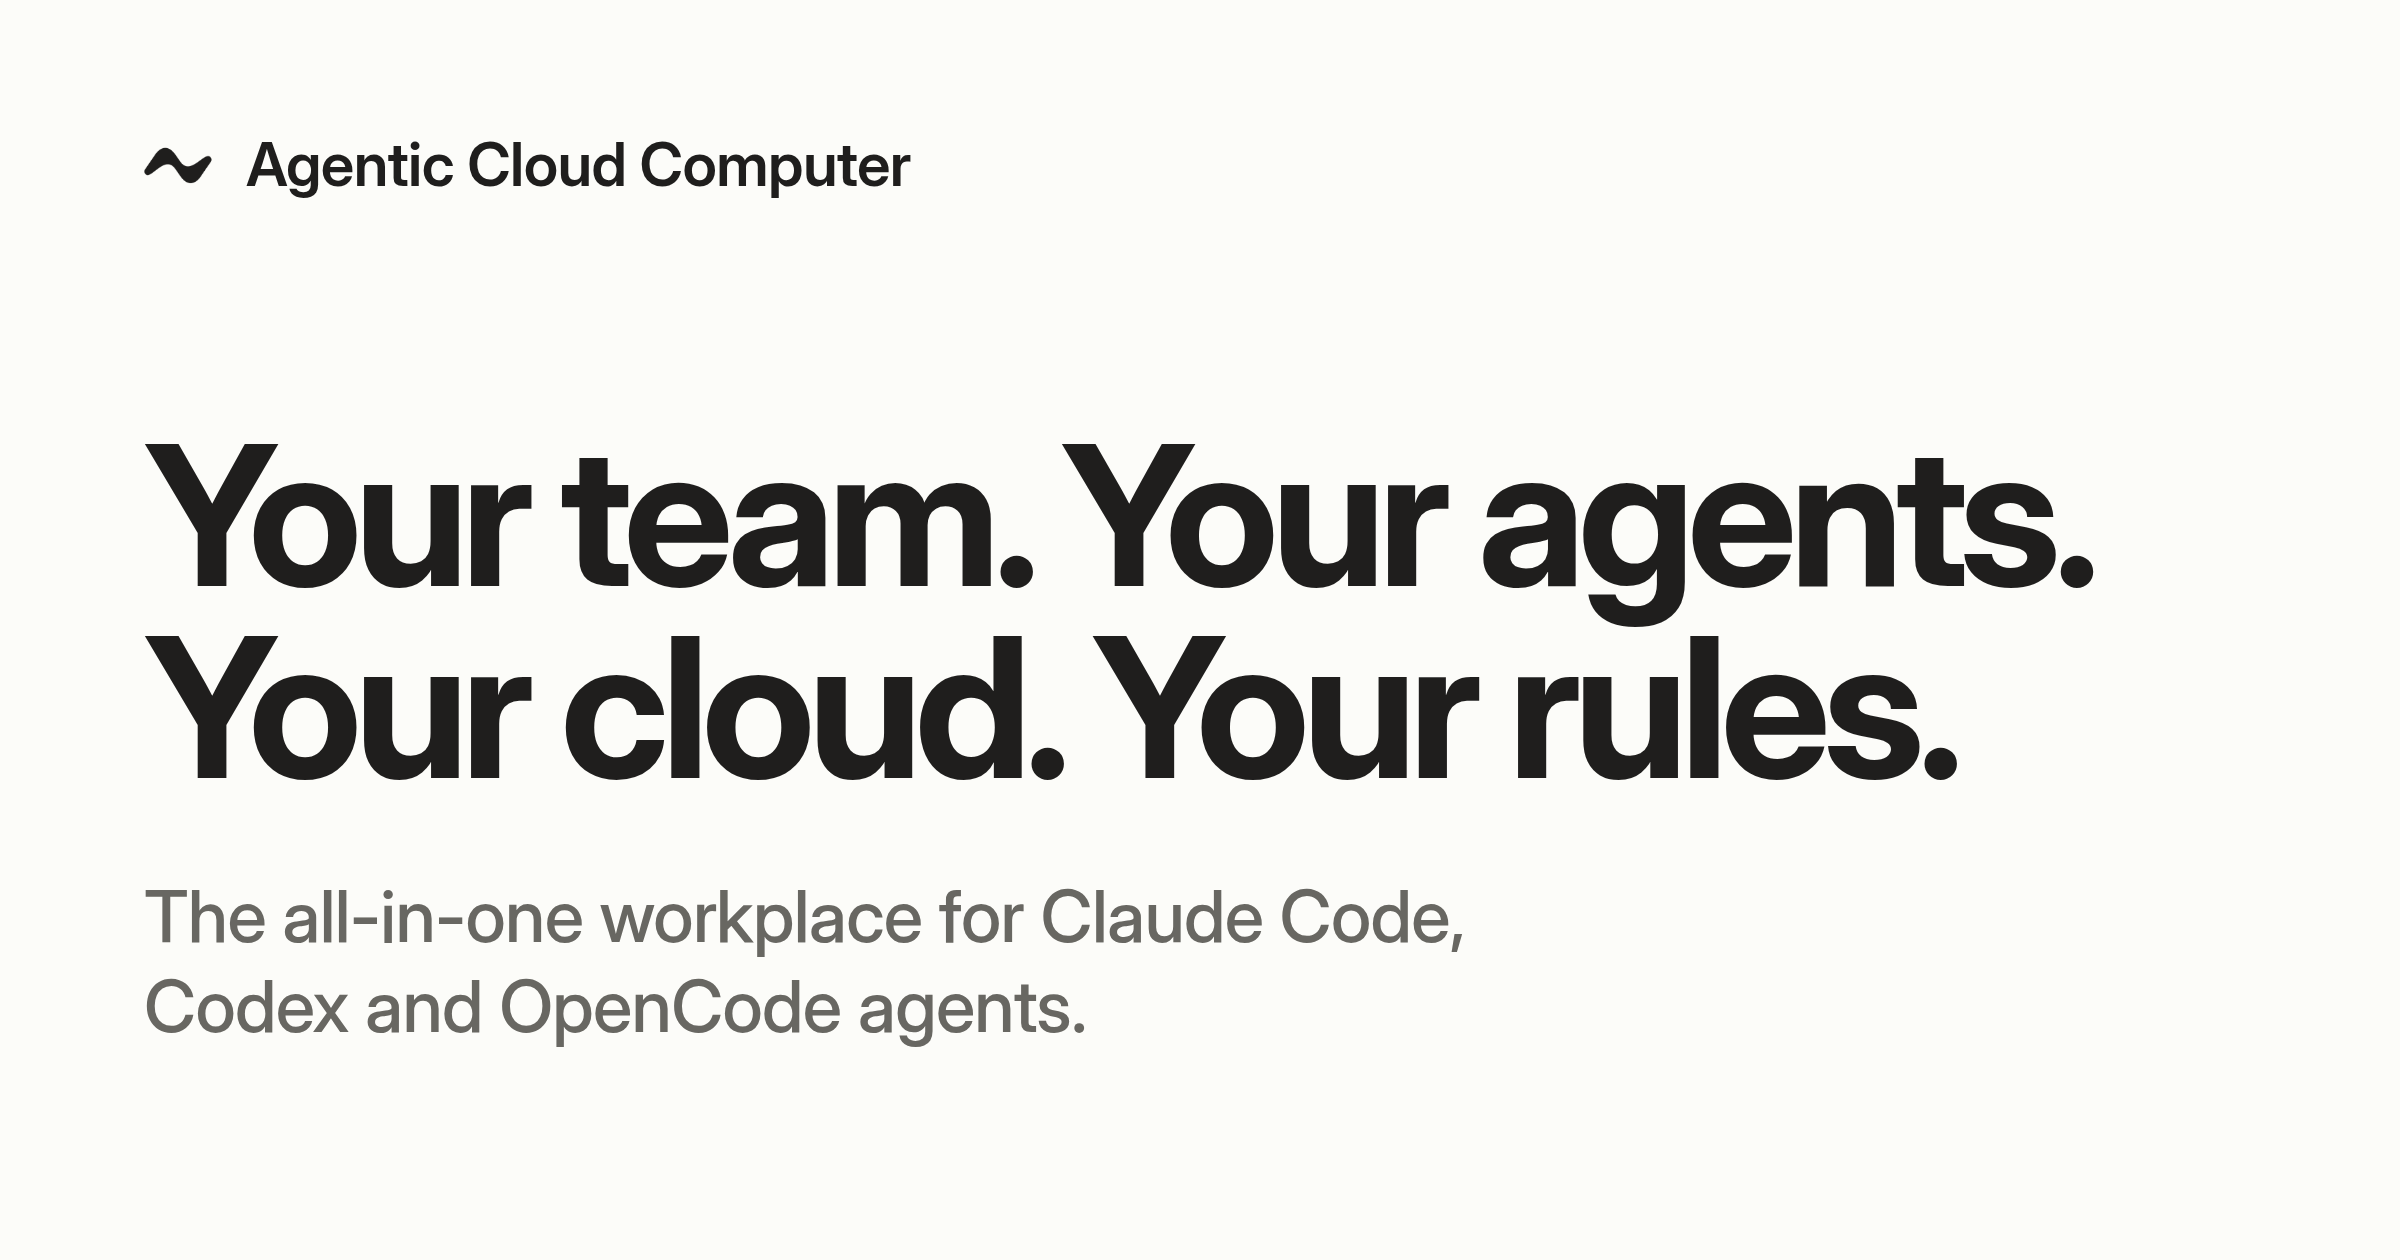
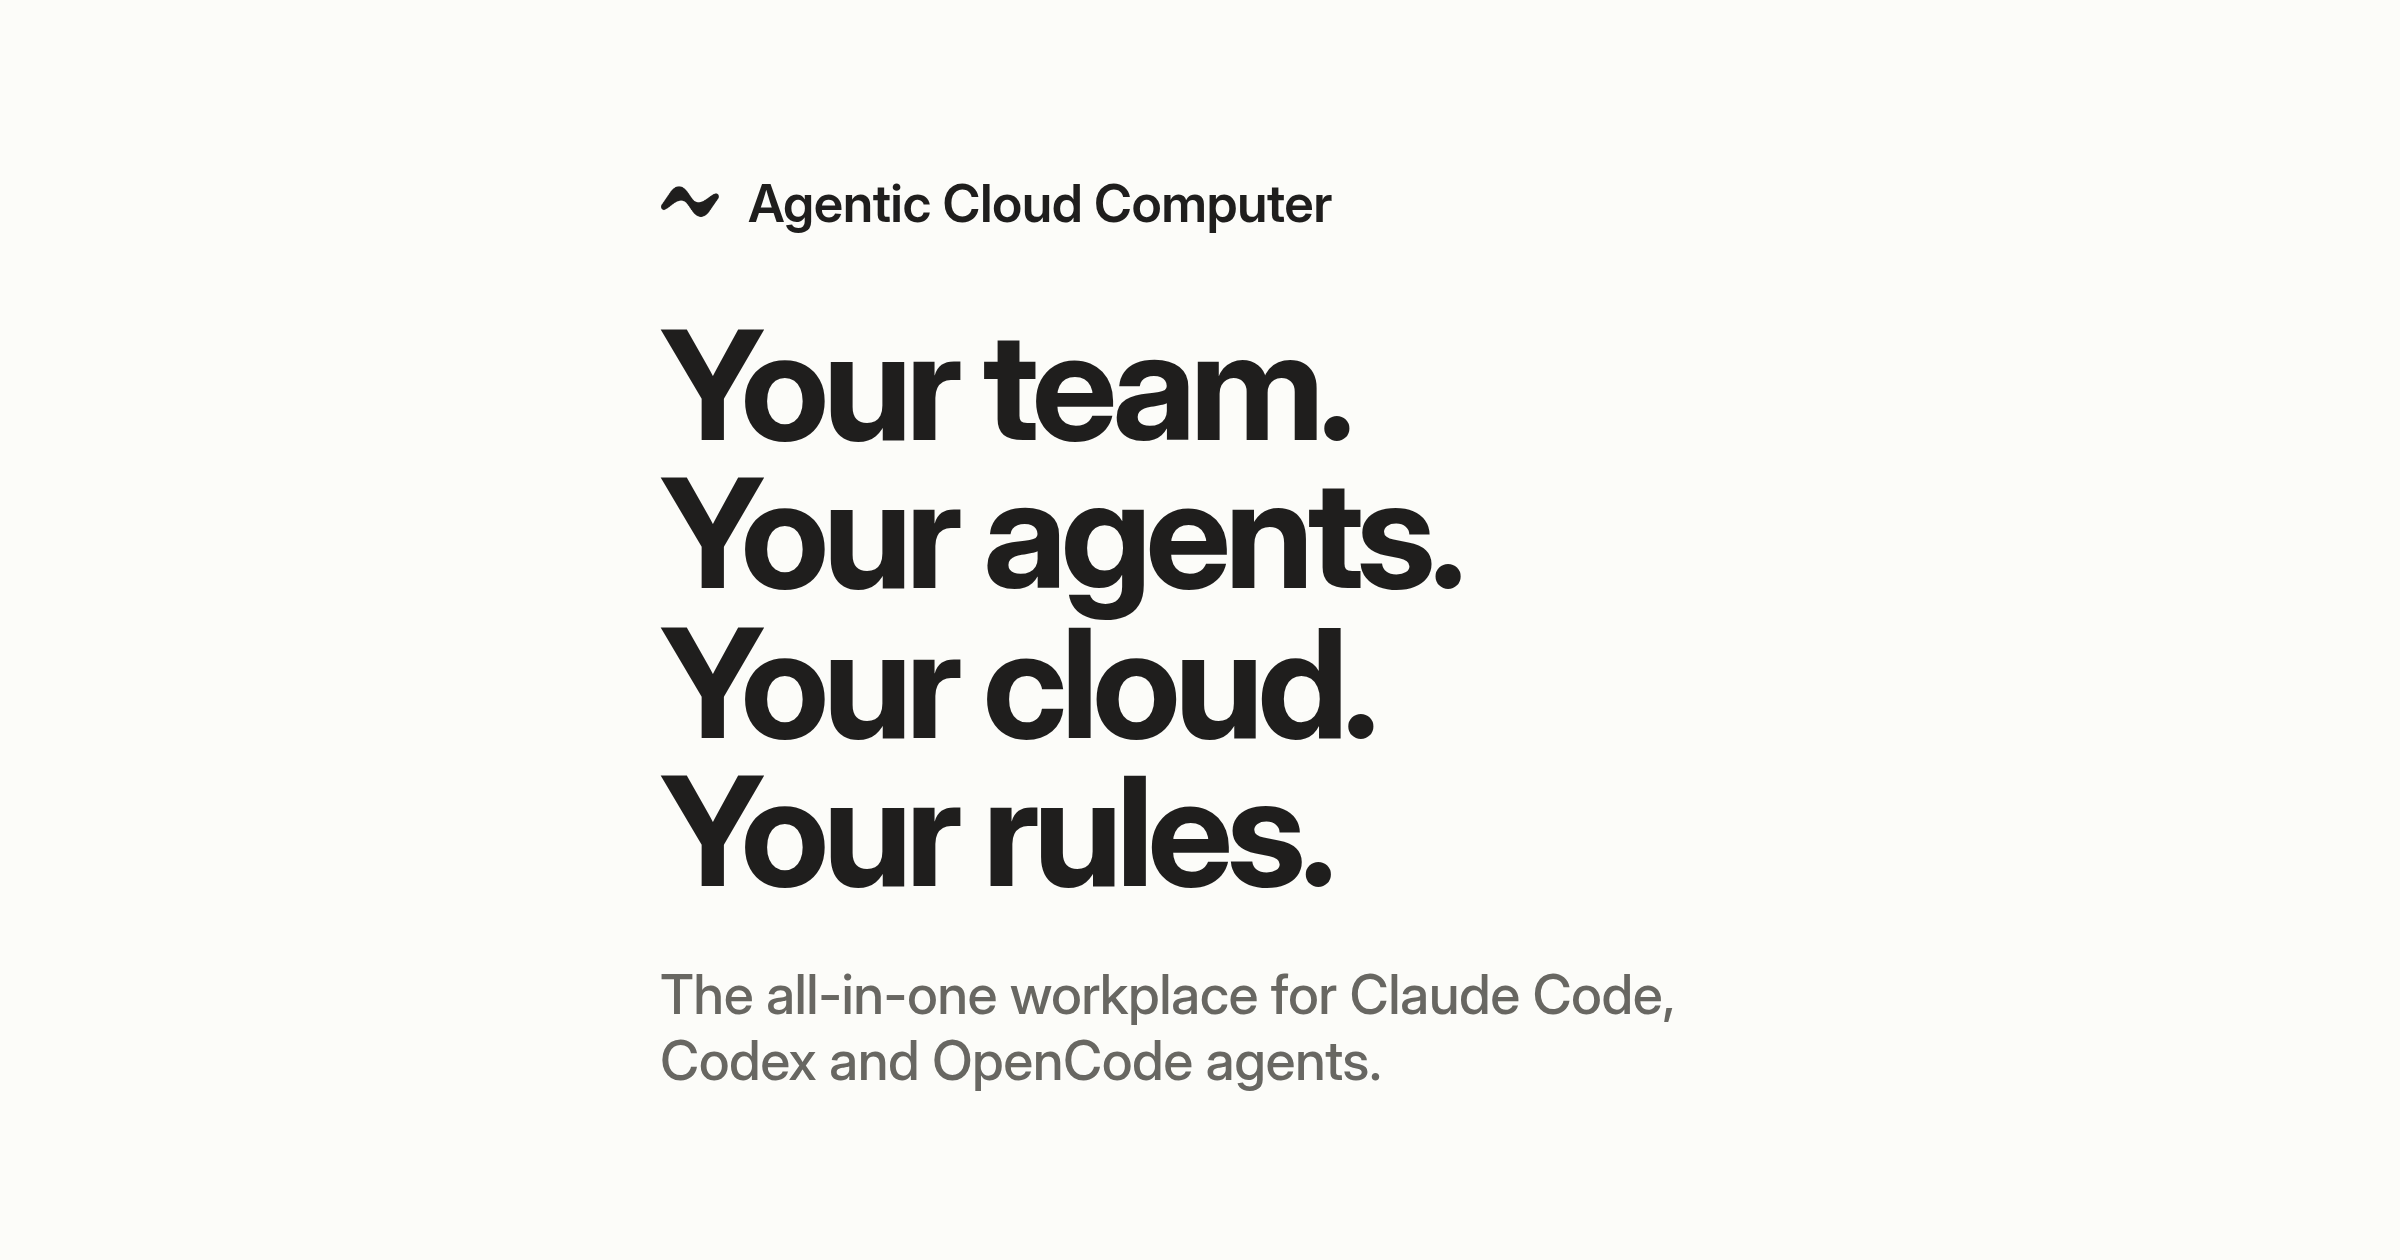
Share card: square-safe picture, a description that says what the title does not, www documented (note #1137)
Adam, 10 Nov 2026, 15:33 UTC, "Fix all" on three findings about how the
link looks when shared:

- The picture (og-image.png?v=33): one column inside the centre square
  (x 285..915 of 1200), the headline one sentence a line, so WhatsApp and
  iMessage's square thumbnail shows the whole card instead of chopped
  words. Same cream, same type, same words. shoot-og-image.mjs now refuses
  to write a picture whose text leaves the square.
- The description (meta, og, twitter): "Each agent works on a computer of
  its own in your company's cloud. None of your data comes to us. Git,
  hosting and email are built in." (134). The title stays.
- www.agenticcloudcomputer.com now 301s to the bare domain through the
  apex-redirect Pages project (set up through the Cloudflare API; the README
  records how).

Changed region(s): [[0.0625, 0.2476, 0.875, 0.8667], [0.0625, 0.0929, 0.5625, 0.1857]]

diff --git a/src/pages/OgPreview.tsx b/src/pages/OgPreview.tsx
@@ -18,6 +18,13 @@ import { SHARE_HEADLINE, SHARE_LINE } from '../lib/share-card';
 // (about 270 to 516 px wide); the bottom-left 100 px is left clear, because X
 // lays its title label over that corner; the background is the film's own
 // (#fcfcf9) and the ink and grey are the home page's.
+//
+// SQUARE-SAFE since note #1137 (Adam, 10 Nov 2026, 15:33 UTC, "Fix all"):
+// WhatsApp and iMessage often draw only the centre square of the card, which
+// is x 285..915 of 1200. Everything now stands in one column inside that
+// square (SQUARE_SAFE), the headline set one sentence a line, so the crop
+// shows the whole card rather than chopped words. scripts/shoot-og-image.mjs
+// refuses to write the picture if any text leaves the square.
 function BrandMark({ className, style }: { className?: string; style?: CSSProperties }) {
   const mask: CSSProperties = {
     backgroundColor: '#1f1e1d',
@@ -34,27 +41,33 @@ function BrandMark({ className, style }: { className?: string; style?: CSSProper
   return <span className={`inline-block ${className ?? ''}`} style={mask} aria-hidden="true" />;
 }
 
+/** The centre square of the 1200x630 card, and the column inside it. */
+export const SQUARE_SAFE = { left: 285, right: 915, column: 540 } as const;
+
 export default function OgPreview() {
-  const [first, second] = SHARE_HEADLINE.split(/(?<=agents\.) /);
+  const lines = SHARE_HEADLINE.split(/(?<=\.) /);
   return (
     <main className="landing-page flex min-h-dvh items-center justify-center bg-canvas-soft">
       <div
         id="og-canvas"
-        className="relative flex h-[630px] w-[1200px] shrink-0 flex-col overflow-hidden"
-        style={{ background: '#fcfcf9', color: '#1f1e1d', padding: '60px 72px 104px', boxSizing: 'border-box', fontFamily: 'var(--font-ui)' }}
+        className="relative flex h-[630px] w-[1200px] shrink-0 items-center justify-center overflow-hidden"
+        style={{ background: '#fcfcf9', color: '#1f1e1d', boxSizing: 'border-box', fontFamily: 'var(--font-ui)' }}
       >
-        <div data-og-masthead className="flex items-center" style={{ gap: 12, fontSize: 30, fontWeight: 600, letterSpacing: '-0.01em', marginLeft: -5 }}>
-          <BrandMark style={{ width: 44, height: 44 }} />
-          Agentic Cloud Computer
-        </div>
-        <div style={{ marginTop: 'auto' }}>
-          <h1 style={{ margin: 0, fontSize: 98, fontWeight: 700, letterSpacing: '-0.04em', lineHeight: 0.98 }}>
-            {first}
-            <br />
-            {second}
+        <div data-og-column style={{ width: SQUARE_SAFE.column }}>
+          <div data-og-masthead className="flex items-center" style={{ gap: 10, fontSize: 26, fontWeight: 600, letterSpacing: '-0.01em', marginLeft: -4 }}>
+            <BrandMark style={{ width: 38, height: 38 }} />
+            Agentic Cloud Computer
+          </div>
+          <h1 style={{ margin: '34px 0 0', fontSize: 76, fontWeight: 700, letterSpacing: '-0.04em', lineHeight: 0.98 }}>
+            {lines.map((line, index) => (
+              <span key={line}>
+                {index > 0 && <br />}
+                {line}
+              </span>
+            ))}
           </h1>
-          <p className="[text-wrap:balance]" style={{ margin: '34px 0 0', maxWidth: 1000, fontSize: 36, lineHeight: 1.25, fontWeight: 500, letterSpacing: '-0.01em', color: '#686762' }}>
-            {/* "Claude Code" never splits across the two lines. */}
+          <p style={{ margin: '28px 0 0', fontSize: 27, lineHeight: 1.25, fontWeight: 500, letterSpacing: '-0.01em', color: '#686762' }}>
+            {/* "Claude Code" never splits across two lines. */}
             {SHARE_LINE.replace('Claude Code', 'Claude\u00a0Code')}
           </p>
         </div>

diff --git a/index.html b/index.html
@@ -4,7 +4,7 @@
     <meta charset="UTF-8" />
     <meta name="viewport" content="width=device-width, initial-scale=1.0, viewport-fit=cover" />
     <title>One workplace for Claude Code, Codex and OpenCode agents — Agentic Cloud Computer</title>
-    <meta name="description" content="Your team. Your agents. Your cloud. Your rules. One workplace for Claude Code, Codex and OpenCode agents, with git, hosting and email built in." />
+    <meta name="description" content="Each agent works on a computer of its own in your company’s cloud. None of your data comes to us. Git, hosting and email are built in." />
     <meta name="color-scheme" content="light" />
     <meta name="theme-color" content="#fcfcfb" />
     <meta name="author" content="Agentic Cloud Computer" />
@@ -46,9 +46,9 @@
     <!-- Open Graph / Social -->
     <meta property="og:type" content="website" />
     <meta property="og:title" content="One workplace for Claude Code, Codex and OpenCode agents" />
-    <meta property="og:description" content="Your team. Your agents. Your cloud. Your rules. One workplace for Claude Code, Codex and OpenCode agents, with git, hosting and email built in." />
+    <meta property="og:description" content="Each agent works on a computer of its own in your company’s cloud. None of your data comes to us. Git, hosting and email are built in." />
     <meta property="og:url" content="https://agenticcloudcomputer.com/" />
-    <meta property="og:image" content="https://agenticcloudcomputer.com/og-image.png?v=32" />
+    <meta property="og:image" content="https://agenticcloudcomputer.com/og-image.png?v=33" />
     <meta property="og:image:width" content="2400" />
     <meta property="og:image:height" content="1260" />
     <meta property="og:image:alt" content="Your team. Your agents. Your cloud. Your rules. The all-in-one workplace for Claude Code, Codex and OpenCode agents." />
@@ -57,8 +57,8 @@
     <!-- Twitter -->
     <meta name="twitter:card" content="summary_large_image" />
     <meta name="twitter:title" content="One workplace for Claude Code, Codex and OpenCode agents" />
-    <meta name="twitter:description" content="Your team. Your agents. Your cloud. Your rules. One workplace for Claude Code, Codex and OpenCode agents, with git, hosting and email built in." />
-    <meta name="twitter:image" content="https://agenticcloudcomputer.com/og-image.png?v=32" />
+    <meta name="twitter:description" content="Each agent works on a computer of its own in your company’s cloud. None of your data comes to us. Git, hosting and email are built in." />
+    <meta name="twitter:image" content="https://agenticcloudcomputer.com/og-image.png?v=33" />
     <meta name="twitter:image:alt" content="Your team. Your agents. Your cloud. Your rules. The all-in-one workplace for Claude Code, Codex and OpenCode agents." />
 
     <!-- The site's one webfont: Inter, subset to latin, one variable file for

diff --git a/src/pages/OgPreview.test.tsx b/src/pages/OgPreview.test.tsx
@@ -3,7 +3,7 @@ import path from 'node:path';
 import React from 'react';
 import { render } from '@testing-library/react';
 import { describe, expect, it } from 'vitest';
-import OgPreview from './OgPreview';
+import OgPreview, { SQUARE_SAFE } from './OgPreview';
 import { HOME_TITLE, SHARE_DESCRIPTION, SHARE_HEADLINE, SHARE_IMAGE_ALT, SHARE_IMAGE_VERSION, SHARE_LINE, SHARE_TITLE } from '../lib/share-card';
 
 const ROOT = path.resolve(__dirname, '..', '..');
@@ -18,12 +18,25 @@ describe('The share card (note #1004)', () => {
     const { container } = render(<OgPreview />);
     const card = container.querySelector('#og-canvas')!;
     expect(card.querySelector('[data-og-masthead]')?.textContent?.trim()).toBe('Agentic Cloud Computer');
-    // Two lines, broken after "Your agents."
-    expect(card.querySelector('h1')!.innerHTML).toBe(SHARE_HEADLINE.replace('agents. ', 'agents.<br>'));
+    // One sentence a line (note #1137), so the headline fits the centre square.
+    expect(card.querySelector('h1')!.textContent).toBe(SHARE_HEADLINE.replace(/\. /g, '.'));
+    expect(card.querySelectorAll('h1 br')).toHaveLength(3);
     expect(card.querySelector('p')?.textContent?.replace(/\u00a0/g, ' ')).toBe(SHARE_LINE);
     // No screenshots, no live panels, no avatars: nothing that is
     // unreadable at the size a preview is drawn.
     expect(card.querySelectorAll('img, .ws-live')).toHaveLength(0);
+  });
+
+  // Note #1137: WhatsApp and iMessage may draw only the centre square
+  // (x 285..915). The words stand in one column narrower than that square,
+  // centred; scripts/shoot-og-image.mjs measures the real render.
+  it('keeps every word inside the centre square', () => {
+    const { container } = render(<OgPreview />);
+    const canvas = container.querySelector('#og-canvas')!;
+    expect(canvas.className).toContain('justify-center');
+    const column = canvas.querySelector('[data-og-column]') as HTMLElement;
+    expect(column.style.width).toBe(`${SQUARE_SAFE.column}px`);
+    expect(SQUARE_SAFE.column).toBeLessThanOrEqual(SQUARE_SAFE.right - SQUARE_SAFE.left - 60);
   });
 
   it('keeps the card inside its own 1200x630 frame', () => {

diff --git a/src/lib/share-card.ts b/src/lib/share-card.ts
@@ -14,11 +14,15 @@ export const SHARE_LINE = 'The all-in-one workplace for Claude Code, Codex and O
 export const SHARE_TITLE = 'One workplace for Claude Code, Codex and OpenCode agents';
 /** The home page's <title>: the share title, then the name (81). */
 export const HOME_TITLE = `${SHARE_TITLE} — Agentic Cloud Computer`;
-/** The meta, og and twitter description of the home page (143). */
+/** The meta, og and twitter description of the home page (134). Since note
+ *  #1137 (Adam, 10 Nov 2026, 15:33 UTC, "Fix all") it says what the title
+ *  does not, instead of naming the three agents a second time: where each
+ *  agent works, that none of the data comes to us (the daily report is
+ *  Privacy Policy material, note #1135), and what is built in. */
 export const SHARE_DESCRIPTION =
-  'Your team. Your agents. Your cloud. Your rules. One workplace for Claude Code, Codex and OpenCode agents, with git, hosting and email built in.';
+  'Each agent works on a computer of its own in your company’s cloud. None of your data comes to us. Git, hosting and email are built in.';
 /** og:image:alt: the card's own words (116). */
 export const SHARE_IMAGE_ALT = `${SHARE_HEADLINE} ${SHARE_LINE}`;
 /** Bump with every new public/og-image.png: X, Slack, iMessage and Telegram
  *  cache the picture by its URL. */
-export const SHARE_IMAGE_VERSION = 32;
+export const SHARE_IMAGE_VERSION = 33;

diff --git a/src/entry-server.test.tsx b/src/entry-server.test.tsx
@@ -55,7 +55,10 @@ describe('prerendered routes', () => {
     // and names what is built in.
     expect(home?.title).toBe('One workplace for Claude Code, Codex and OpenCode agents — Agentic Cloud Computer');
     expect(home?.shareTitle).toBe('One workplace for Claude Code, Codex and OpenCode agents');
-    expect(home?.description).toBe('Your team. Your agents. Your cloud. Your rules. One workplace for Claude Code, Codex and OpenCode agents, with git, hosting and email built in.');
+    // Since note #1137 (10 Nov 2026) the description says what the title
+    // does not, and never names the three agents again.
+    expect(home?.description).toBe('Each agent works on a computer of its own in your company’s cloud. None of your data comes to us. Git, hosting and email are built in.');
+    expect(home?.description).not.toMatch(/Claude Code|Codex|OpenCode|daily report/);
     expect(home?.description).not.toMatch(/second brain/);
     expect(home?.description).not.toMatch(/cloud computer|laptop|a cloud to work in/i);
     for (const route of ROUTES) expect(route.description, route.path).not.toMatch(/\bfree\b|at no charge|\bour cloud/i);

diff --git a/infra/apex-redirect/README.md b/infra/apex-redirect/README.md
@@ -1,7 +1,17 @@
-# agentbuilt.app apex redirect
+# agentbuilt.app apex redirect (and www.agenticcloudcomputer.com)
 
 `https://agentbuilt.app/<anything>` answers `301` to
 `https://agenticcloudcomputer.com/<anything>` (path and query kept). Note #683.
+
+Since note #1137 (10 Nov 2026) the same project also answers
+`https://www.agenticcloudcomputer.com/<anything>` with the same `301` to the
+bare domain. `www.agenticcloudcomputer.com` is a second Pages custom domain on
+`agentbuilt-app-redirect`, and the agenticcloudcomputer.com zone has a proxied
+`CNAME www -> agentbuilt-app-redirect.pages.dev`, written with the workplace
+secret `CLOUDFLARE_R2_TOKEN` (DNS edit on that zone). A redirect rule was not
+possible because that token cannot write rulesets. The landing's own Pages
+Function could not do it either, because `public/_routes.json` keeps many
+paths out of it. Until note #1137, www had no DNS record at all.
 
 The whole site is `public/_redirects`, served by the Cloudflare Pages project
 `agentbuilt-app-redirect` (account `2acc98ccfb2a55a86ba0314e7955f657`).
